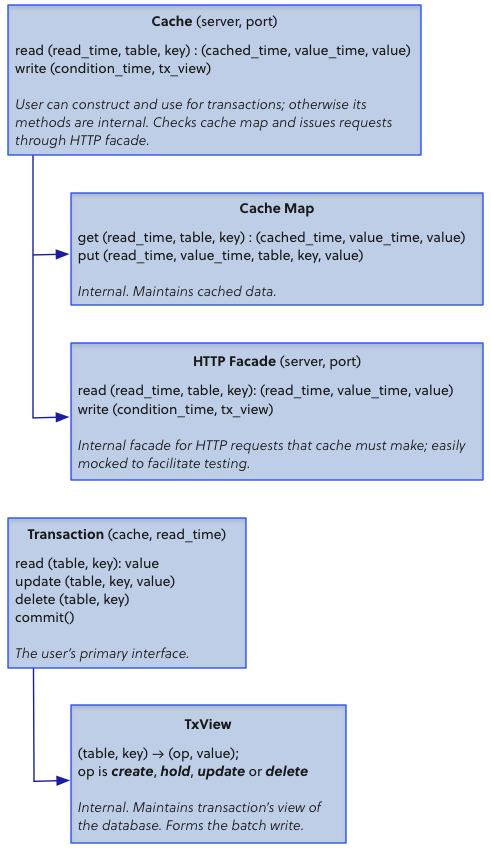
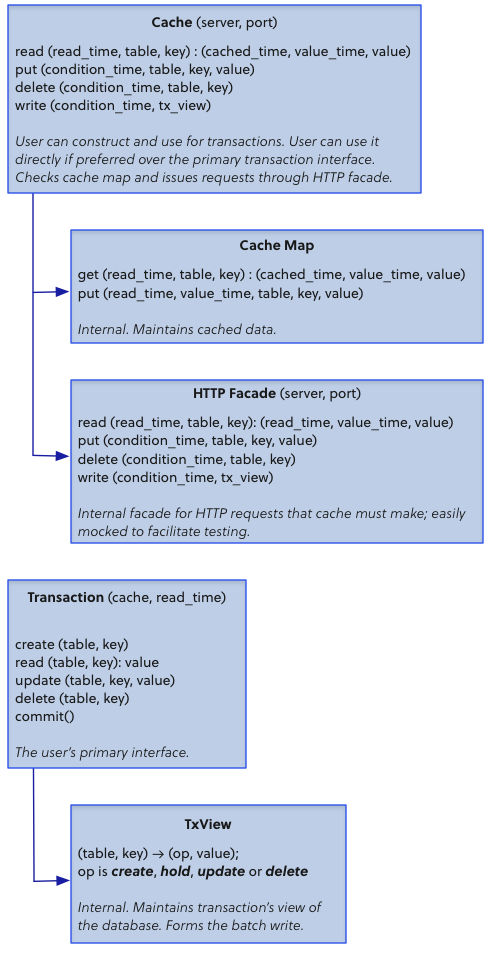
Clarify some confusing in the client design.

Changed region(s): [[0.0, 0.3958, 1.0, 1.0], [0.0, 0.0, 1.0, 0.3653]]

diff --git a/client/DESIGN.md b/client/DESIGN.md
@@ -283,18 +283,23 @@ There are several cases in which the HTTP response does not include the JSON val
 
 ### Write Responses
 
-The DB will respond with either a success or rejection indicator.  If the DB rejects it, the write method should throw a StaleException, to indicate that caller should retry the operation using fresher data from the DB.
-
-The HTTP response for a successful PUT or DELETE to an individual item, or a POST to `/batch-write` will look like:
+The DB will respond with either a success or rejection indicator. The HTTP response for a successful PUT or DELETE to an individual item, or a POST to `/batch-write` will look like:
 
     HTTP/1.1 200 Ok
     Value-TxClock: 1421236393816753
 
-However, it is also possible the DB server will reject the write because another client has written some of the values in the meantime.  In this case, the HTTP write response will be:
+However, it is possible the DB server will reject the write because another client has written some of the values in the meantime.  In this case, the HTTP write response will be:
 
     HTTP/1.1 412 Precondition Failed
+    Value-TxClock: 1421236393816753
 
-The the client should retry the transaction with a smaller value for the max-age header (e.g., min-age=0) to ensure the values it receives from the client cache and intermediate caches are not stale.
+The `Value-TxClock` included in the response is the maximum of the timestamps on the rows identified in the write batch. The write should throw a StaleException, and the the client should retry the operation with a smaller value for the max-age header (e.g., min-age=0) to ensure the values it receives from the client cache and intermediate caches are not stale.
+
+Also, it is possible the DB server will reject the write because it attempts to create rows which already exist. The HTTP response will be:
+
+    HTTP/1.1 409 Conflict
+
+In this case the write should throw a CollisionException, and the client should retry the operation using different keys for the new rows.
 
 When the client pipelines requests (future feature), the server provides the response multiple times, once for each request.
 
@@ -312,14 +317,17 @@ We provide an overview of the Cache class, including its internal data structure
 
 - Public Methods:
     1. read (read\_time: TxClock, table: String, key: String, max\_age: int, no\_cache: bool): JSON value
-    2. write (condition\_time: TxClock, op\_list: TxView): TxClock, throws StaleException
+    2. put (condition\_time: TxClock, table: String, key: String, value: JSON): TxClock<br>&nbsp;&nbsp;&nbsp;&nbsp;throws StaleException
+    3. delete (condition\_time: TxClock, table: String, key: String, value: JSON): TxClock<br>&nbsp;&nbsp;&nbsp;&nbsp;throws StaleException
+    4. write (condition\_time: TxClock, op\_list: TxView): TxClock<br>&nbsp;&nbsp;&nbsp;&nbsp;throws StaleException, CollisionException
 
 - Internal Objects:
     1. HTTP connection to server
     2. Map for maintaining the cache
 
 - Exceptions:
-    1. StaleException (read\_time: TxClock, value\_time: TxClock)
+    1. StaleException (condition\_time: TxClock, value\_time: TxClock)
+    2. CollisionException
 
 ## Cache Structure
 
@@ -388,14 +396,42 @@ The max\_age, and no\_cache parameters can be specified by the user in four sepa
 
 These max\_age and no\_cache values also appear in cache read method, though users do not directly provide those values. Users provide max\_age and no\_cache to the transaction constructor and transaction read method, and then the transaction read method in turn provides restricted values to the cache read method.
 
+### put
+
+    put (
+        condition_time: TxClock, 
+        table: String,
+        value: JSON
+    ): TxClock
+        throws StaleException
+
+The put method sends the value to the DB server as a conditional PUT. If the server accepts the PUT, the put method also updates the cache to reflect the newly written value. Otherwise, the put method throws a stale exception, including the value timestamp from the rejection.
+
+This method exists for a client that wishes to skip the Transaction abstraction and PUT directly to the database.
+
+### delete
+
+    delete (
+        condition_time: TxClock, 
+        table: String
+    ): TxClock
+        throws StaleException
+
+The delete method sends the request to the DB server as a conditional DELETE. If the server accepts the DELETE, the delete method also updates the cache to reflect the newly removed value. Otherwise, the delete method throws a stale exception, including the value timestamp from the rejection.
+
+This method exists for a client that wishes to skip the Transaction abstraction and DELETE directly on the database.
+
 ### write
 
     write (
         condition_time: TxClock,
         tx_view: (table, key) -> (op, value)
-    ): TxClock, throws StaleException
+    ): TxClock
+        throws StaleException, CollisionException
 
-The write method sends the [transaction’s view](#tx-view) to the DB server as a conditional batch write. If the server accepts the batch write, the write method also updates the cache to reflect the newly written values. Otherwise, the write method throws a stale exception, including the value timestamp in the DB that caused the write reject if it is available.
+The write method sends the [transaction’s view](#tx-view) to the DB server as a conditional batch write. If the server accepts the batch write, the write method also updates the cache to reflect the newly written values. Otherwise, the write method throws a stale exception or a collision exception as appropriate.
+
+This method exists to support the commit method in the Transaction abstraction.
 
 
 <a name="transaction"></a>
@@ -410,10 +446,11 @@ The write method sends the [transaction’s view](#tx-view) to the DB server as 
 
 - Public Methods:
 
-    1. read (table: string, key: string, max\_age=None, no\_cache=False): JSON, throws StaleException
-    2. write (table: string, key: string, value: JSON)
+    1. create (table: String, key: String, value: JSON)<br>&nbsp;&nbsp;&nbsp;&nbsp;throws CollisionException
+    1. read (table: string, key: string, max\_age=None, no\_cache=False): JSON<br>&nbsp;&nbsp;&nbsp;&nbsp;throws StaleException
+    2. update (table: string, key: string, value: JSON)
     3. delete (table: string, key: string)
-    4. commit(): TxClock, throws StaleException
+    4. commit(): TxClock<br>&nbsp;&nbsp;&nbsp;&nbsp;throws StaleException, CollisionException
 
 - Internal Objects:
 
@@ -431,7 +468,8 @@ The write method sends the [transaction’s view](#tx-view) to the DB server as 
 
 - Exceptions:
 
-    1. StaleException (read\_time: int, value\_time: int)
+    1. StaleException (condition\_time: int, value\_time: int)
+    2. CollisionException
 
 ## Transaction Structure
 
@@ -468,7 +506,7 @@ The possible ops in the map are the following
 
 - **create**
 
-  Add a new entry to the DB with *key* and *value*, if an entry for *key* does not already exist.
+  Add a new entry to the DB with *key* and *value*, if an entry for *key* does not already exist, or if the current entry for *key* is *delete*.
 
 - **hold**
 
@@ -483,8 +521,19 @@ The possible ops in the map are the following
 - **delete**
 
   Remove the *key* from the database.  The *delete* operation does not require a value.
+  
+Create and update differ slightly in their semantics. Create sets the key to the value if the row does not exist, or if the latest write to the row was a delete, regardless of the timestamp on the delete. Update on the other hand, sets the key to the value if the latest write to the row satisfies the condition time, regardless of whether the row existence (a non-existent row is implicitly a delete at time 0).
 
 ## Transaction Methods
+
+### create
+
+    create (table: string, key: string, value: JSON)
+        throws CollisionException
+
+Create adds a new entry to the view, or changes the existing entry. When adding a new entry, it sets the operation to *create*, and sets the new value. If an entry already exists in the view, and its operation is not *delete*, then create throws a collision exception.  When changing an existing entry that currently has *delete* as its operation, create changes the value, and it changes the operation to *update*.
+
+Like update and delete, create never immediately fails, because a write is only reflected in the view until the transaction commits.
 
 ### read
 
@@ -493,7 +542,8 @@ The possible ops in the map are the following
         key: string,
         max_age: int (default None),
         no_cache: bool (default False)
-    ): JSON, throws StaleException
+    ): JSON
+        throws StaleException
 
 The read method first attempts to read the specified key from the view, then from cache, and finally from the DB server.  If read finds the requested value, it stores it in the view; otherwise, it also stores if the key had no value (None in Python) for that read\_time.
 
@@ -501,13 +551,13 @@ If read finds a value time greater than any previous read time (value\_time > mi
 
 Unlike the cache read method, all transaction reads use the same read\_time, which is specified in the constructor.
 
-### write
+### update
 
-    write (table: string, key: string, value: JSON)
+    update (table: string, key: string, value: JSON)
 
-Write adds a new entry to the view, or updates the existing entry. When adding a new entry, it sets the operation to *create*, and sets the new value. When updating an existing entry, write updates the value, and it may update the operation. If the existing operation is *create* or *update*, then write does not change the operation. If the existing operation is *hold* or *delete*, then write changes the operation to *update*.
+Update adds a new entry to the view, or changes the existing entry. When adding a new entry, it sets the operation to *update*, and sets the new value. When changing an existing entry, update changes the value, and it may change the operation. If the existing operation is *create* or *update*, then update does not change the operation. If the existing operation is *hold* or *delete*, then update changes the operation to *update*.
 
-Writes never immediately fail, because writes are only reflected in the view until the transaction commits.
+Like create and delete, update never immediately fails, because a write is only reflected in the view until the transaction commits.
 
 ### delete
 
@@ -515,11 +565,12 @@ Writes never immediately fail, because writes are only reflected in the view unt
 
 Delete adds a new entry to the view, or updates the existing entry. In either case, it sets the operation to *delete* and the value to None.
 
-Like writes, deletes are only reflected in the view until commit, and never immediately fail.
+Like create and update, delete never immediately fails, because a write is only reflected in the view until the transaction commits.
 
 ### commit
 
-    commit() throws StaleException(Rt, Vt)
+    commit()
+        throws StaleException, CollisionException
 
 Commit passes the map to the cache’s write method, which iterates through the map entries and constructs a batch write, and then sends the batch write to the DB server.
 
